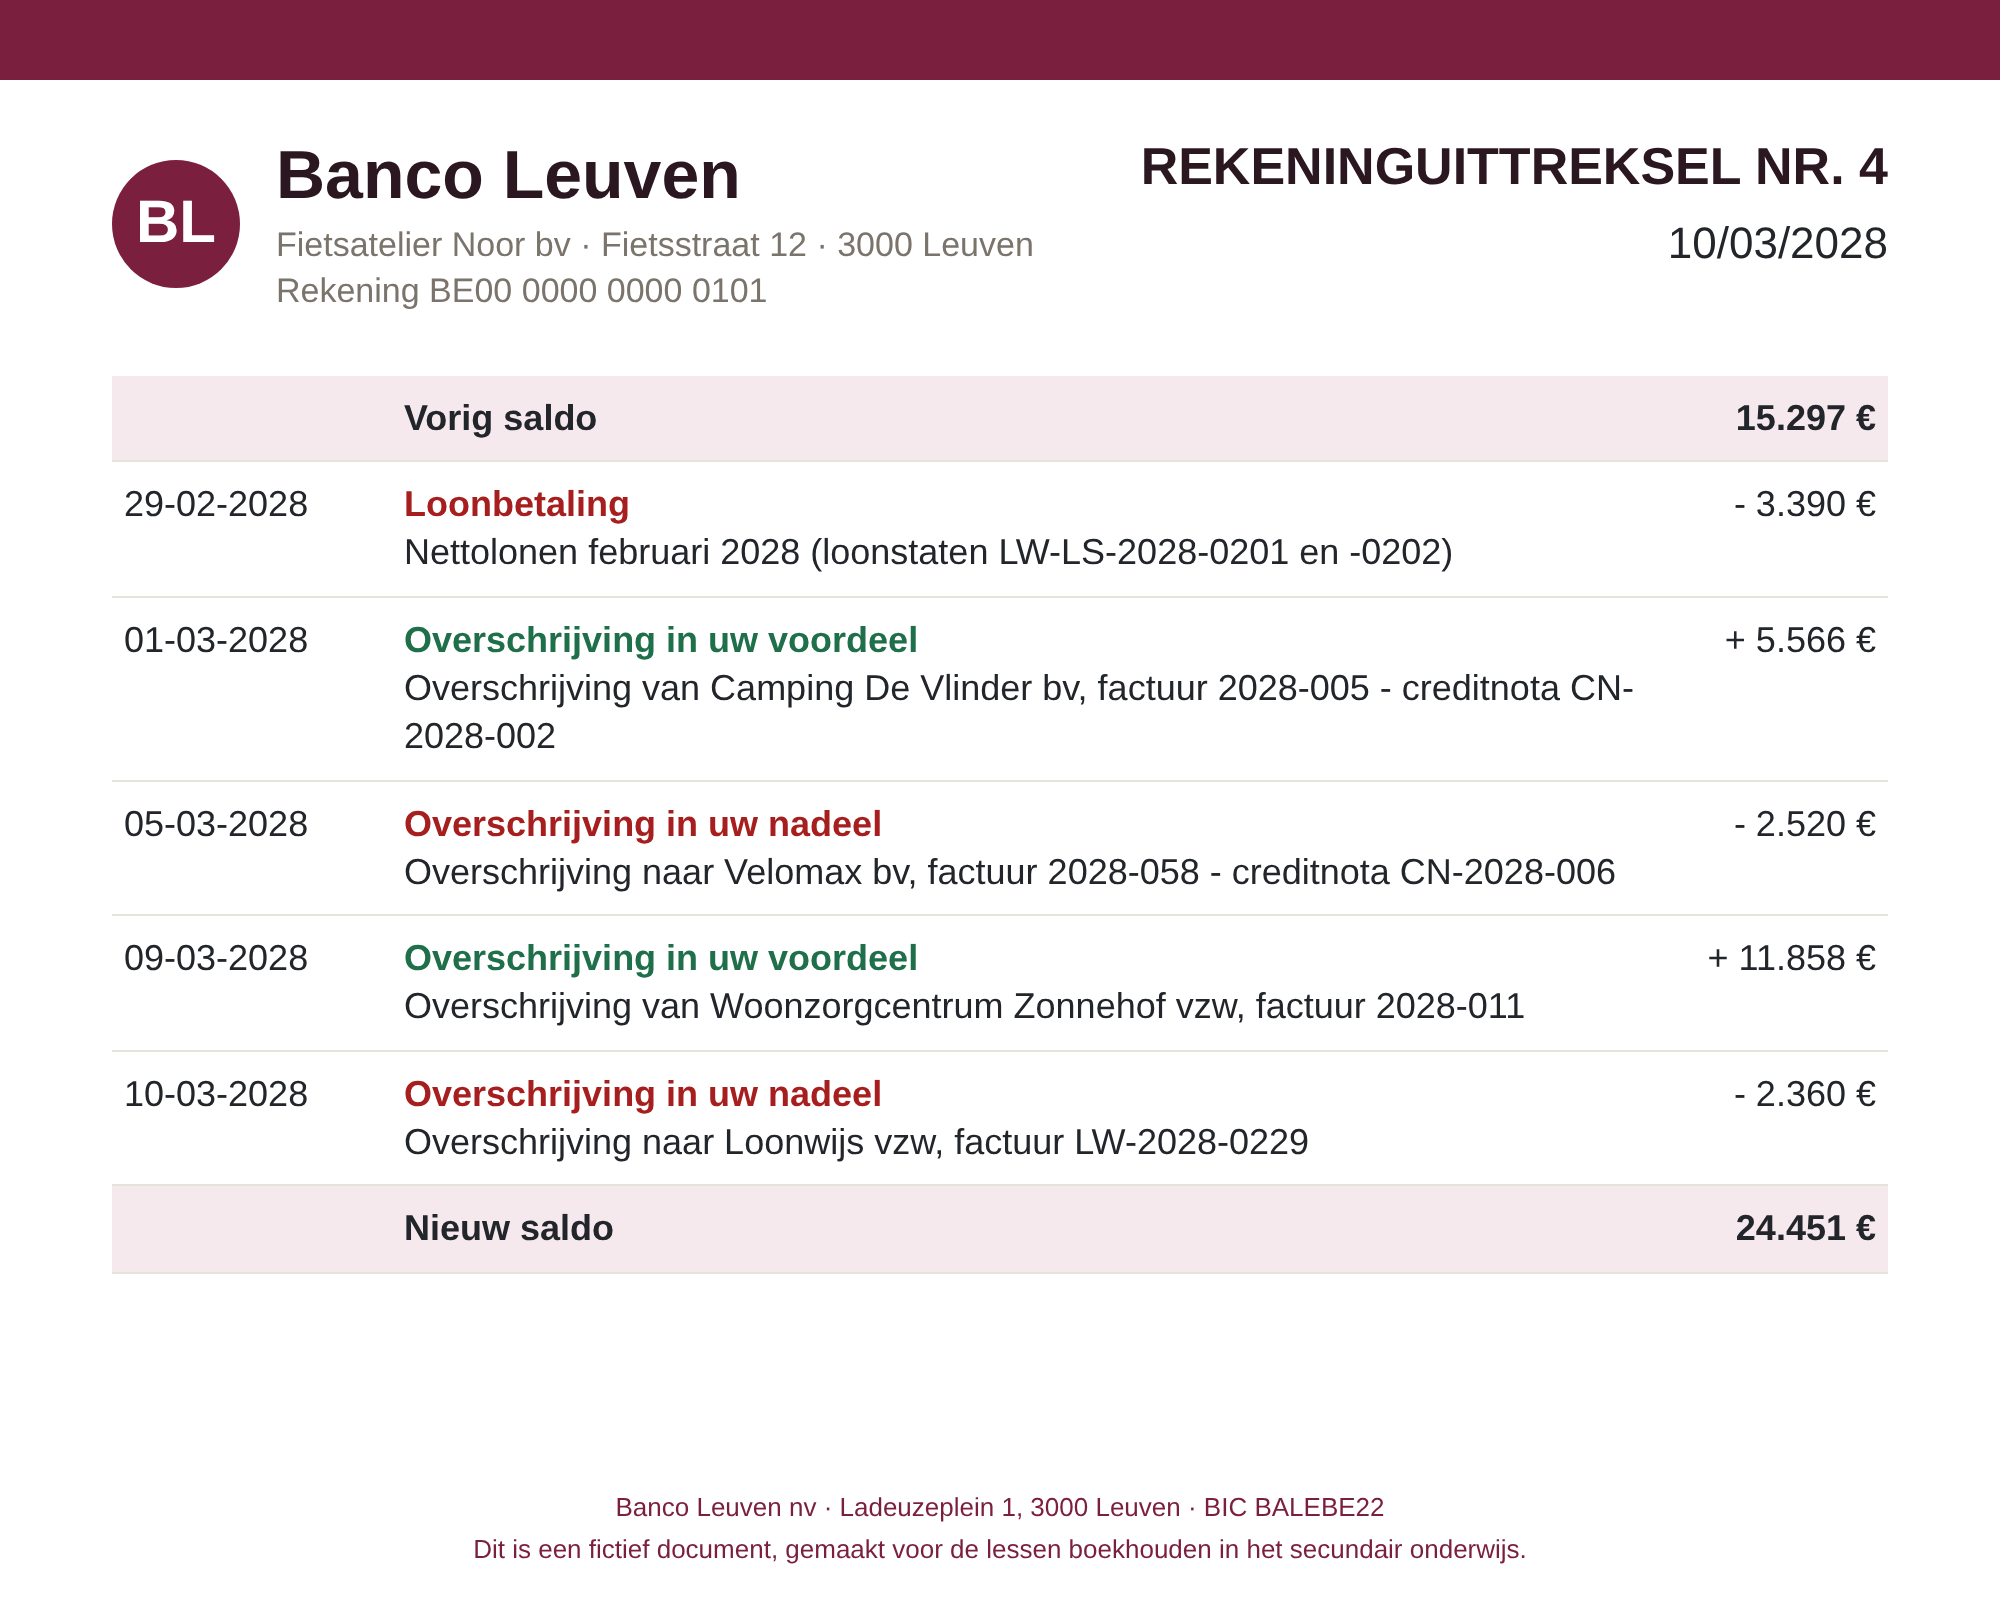
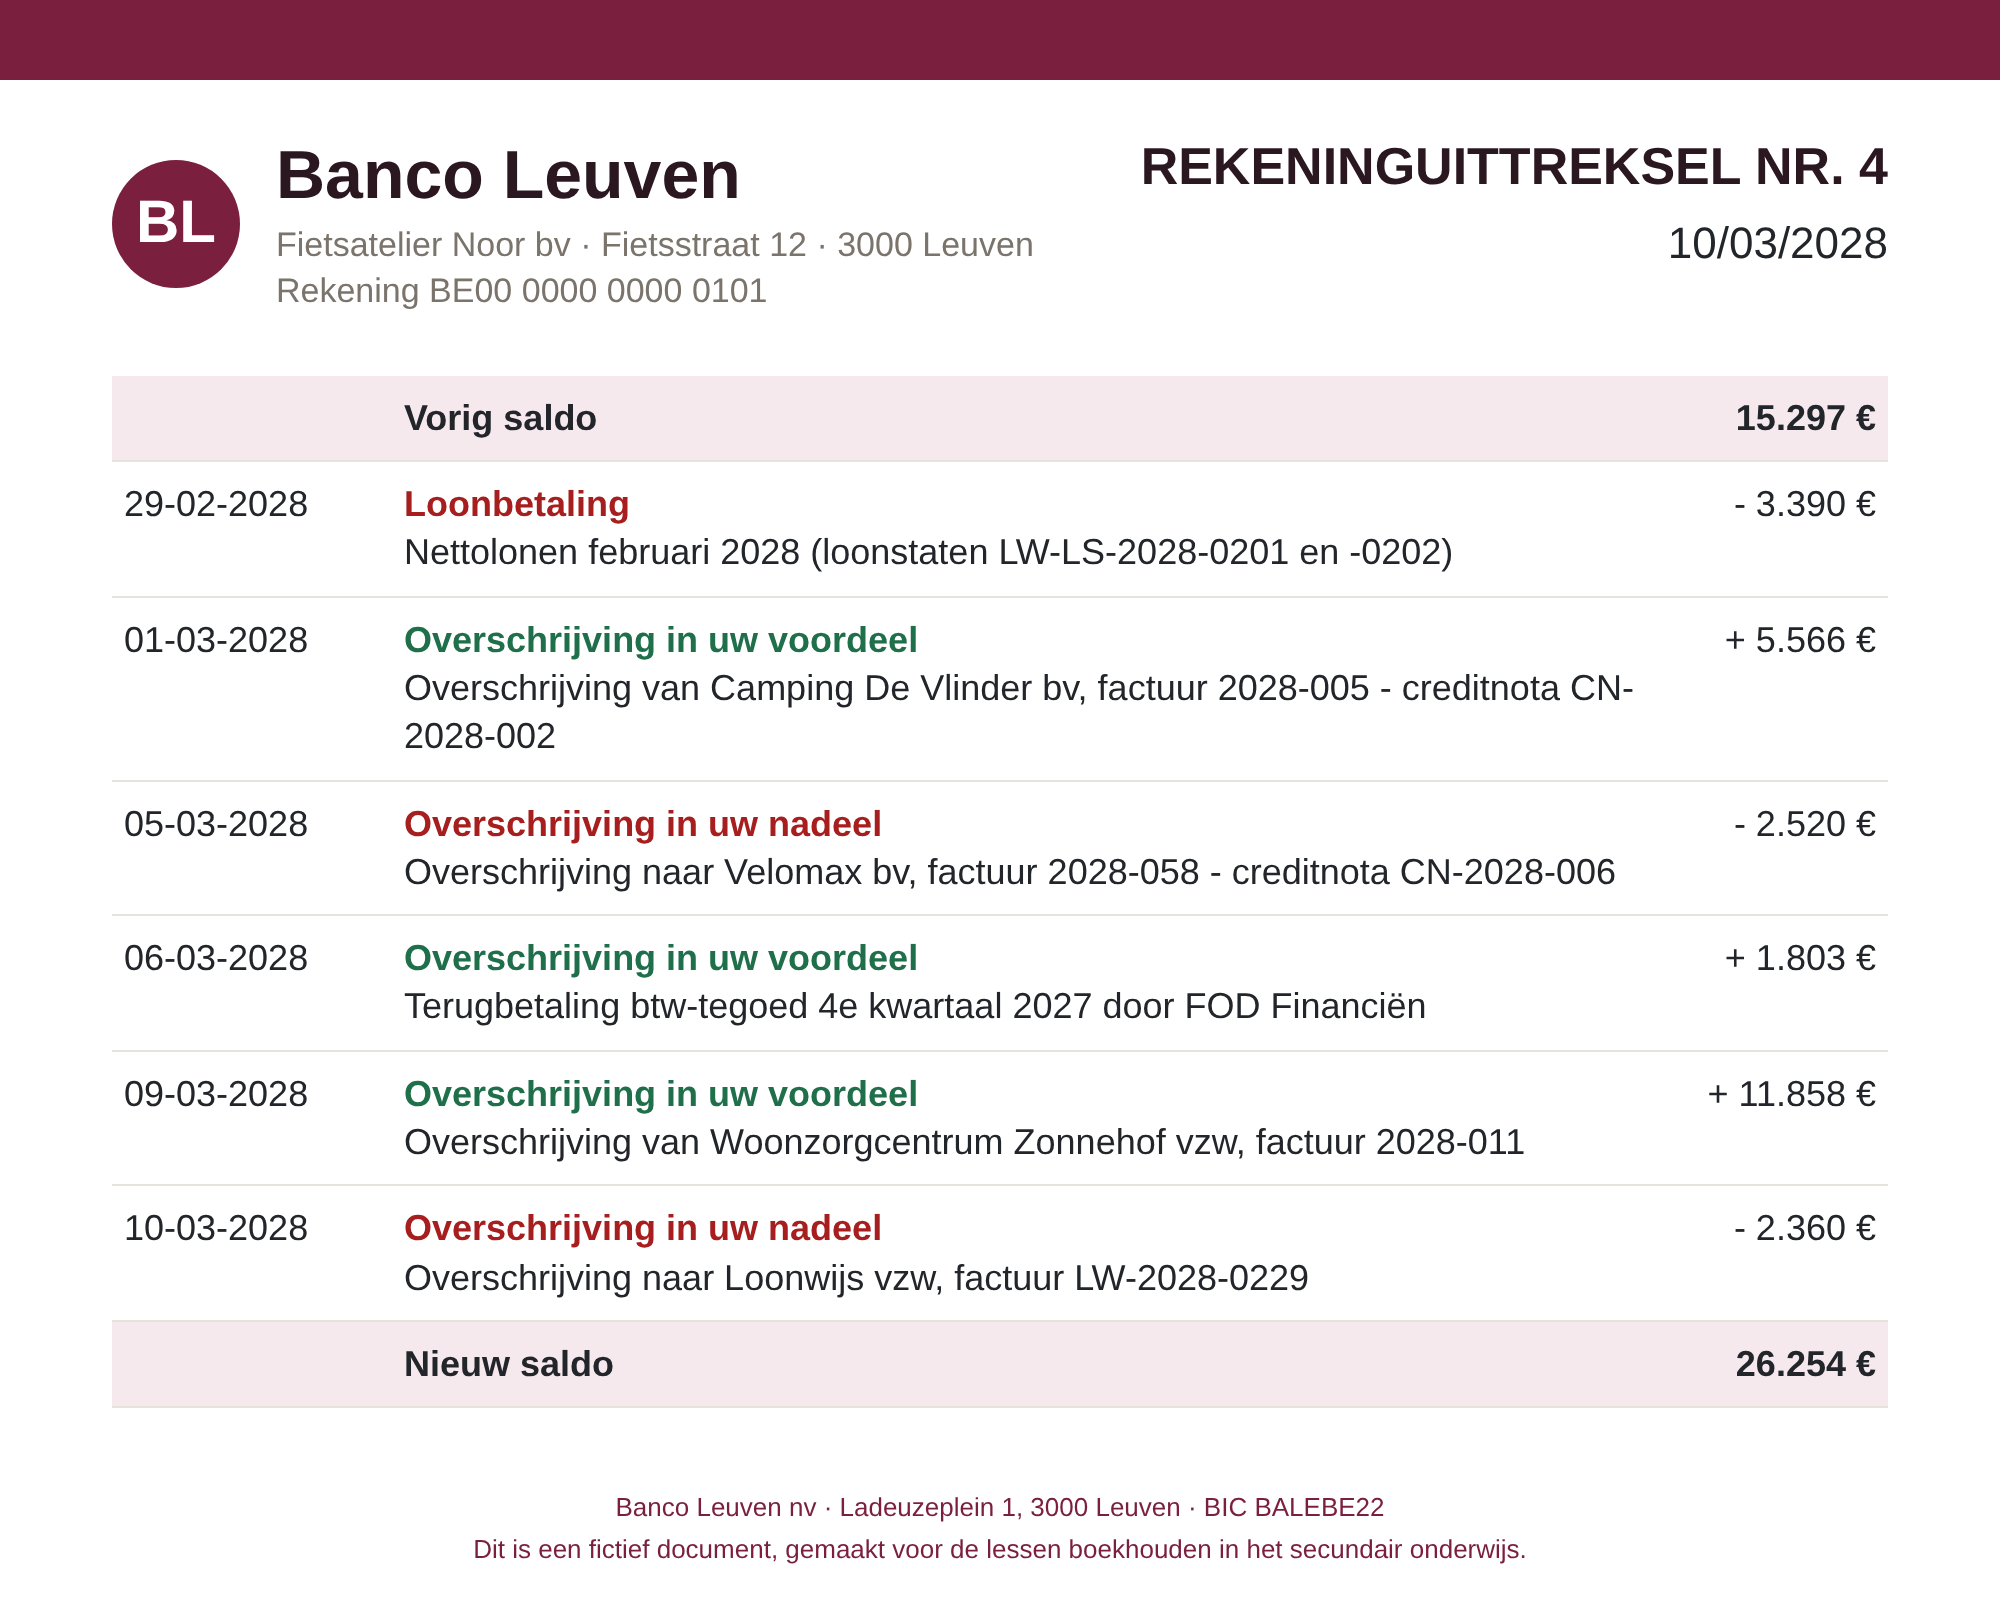
Oefendossier Noor: de staat betaalt het btw-tegoed terug
Op BANK04 (6 maart) betaalt de FOD Financiën het tegoed van het 4e
kwartaal 2027 terug (1.803 op 411000). De btw-verwerking van het 1e
kwartaal verrekent dus geen tegoed meer: te betalen saldo 4.485 op 451000.
Uitleg en controle bij BTW-verwerking mee aangepast.

Claude-Session: https://claude.ai/code/session_0129SribBi2FkufQ5TXPq9yo

diff --git a/js/noor/data-opdrachten.js b/js/noor/data-opdrachten.js
@@ -78,7 +78,7 @@ const OPDRACHTEN = [
   {"ref": "BANK05", "categorie": "Financiële verrichtingen", "titel": "Bankafschrift BANK05", "doc": "BANK05"},
 
   // BTW-verwerking
-  {"ref": "BTW", "categorie": "BTW-verwerking", "titel": "Btw-verwerking 1e kwartaal 2028", "geenDocument": true, "instructie": "Kijk in de T-rekeningen rechts naar het saldo van de tussentijdse btw-rekeningen (de 411- en 451-rekeningen die niet op 000 eindigen). Na de btw-aangifte van het 1e kwartaal wordt die btw gecentraliseerd op 411000 Terug te vorderen btw-saldo of 451000 Te betalen btw-saldo. Let op: op de beginbalans staat nog een btw-tegoed van het 4e kwartaal 2027 op 411000. Dat tegoed verreken je mee."},
+  {"ref": "BTW", "categorie": "BTW-verwerking", "titel": "Btw-verwerking 1e kwartaal 2028", "geenDocument": true, "instructie": "Kijk in de T-rekeningen rechts naar het saldo van de tussentijdse btw-rekeningen (de 411- en 451-rekeningen die niet op 000 eindigen). Na de btw-aangifte van het 1e kwartaal wordt die btw gecentraliseerd op 411000 Terug te vorderen btw-saldo of 451000 Te betalen btw-saldo. Het btw-tegoed van het 4e kwartaal 2027 (beginbalans) is in maart al terugbetaald: kijk na of 411000 op nul staat voor je begint."},
 
   // Eindejaarsverrichtingen
   {"ref": "AFSCHR", "categorie": "Eindejaarsverrichtingen", "titel": "Afschrijvingen 1e kwartaal 2028", "doc": "AFSCHR"},

diff --git a/hulpmiddelen/noor/case-j3.js b/hulpmiddelen/noor/case-j3.js
@@ -503,6 +503,8 @@ const U = [
     ["2028-02-29", lonen([L3, L4], "Nettolonen februari 2028 (loonstaten LW-LS-2028-0201 en -0202)")],
     ["2028-03-01", betaling([VK07, VK09])],
     ["2028-03-05", betaling([AK07, AK15])],
+    ["2028-03-06", { oms: "Terugbetaling btw-tegoed 4e kwartaal 2027 door FOD Financiën", bedrag: BB["411000"], docs: [],
+      regels: [{ rek: "550000", dc: "D", bedrag: BB["411000"] }, { rek: "411000", dc: "C", bedrag: BB["411000"] }] }],
     ["2028-03-09", betaling([VK10])],
     ["2028-03-10", betaling([AK19])],
   ] },
@@ -560,7 +562,9 @@ const saldi = () => {
 // ---- Btw-verwerking 1e kwartaal ----
 {
   const s = saldi();
-  const vorig = BB["411000"] || 0;   // tegoed uit het 4e kwartaal 2027
+  // Het tegoed uit het 4e kwartaal 2027 is in maart terugbetaald (BANK04);
+  // wat er nu nog op 411000 staat, wordt mee verrekend (normaal: niets).
+  const vorig = s["411000"] || 0;
   const saldo = r2(-(s["451100"] || 0) - (s["451200"] || 0) - (s["411100"] || 0) - (s["411200"] || 0) - vorig);
   const doc = { id: "J3BTW", ref: "BTW", categorie: C_BTW, soort: "MEMO", datum: "2028-03-31", geenDocument: true,
     boekOms: "Btw-verwerking 1e kwartaal 2028" };

diff --git a/js/noor/data-controles.js b/js/noor/data-controles.js
@@ -235,8 +235,8 @@ const HANDMATIGE_CONTROLES = [
     id: "noor-btw-tussentijds-leeg",
     categorie: "BTW-verwerking",
     type: "check",
-    vraag: "Zijn alle tussentijdse btw-rekeningen leeg, en is het tegoed van vorig kwartaal verrekend?",
-    toelichting: "Na de btw-aangifte hoort alle btw samen te staan op 411000 of 451000 — niet op allebei. Het tegoed van het 4e kwartaal 2027 (411000 op de beginbalans) verreken je mee.",
+    vraag: "Zijn alle tussentijdse btw-rekeningen leeg, en staat het saldo enkel op 451000?",
+    toelichting: "Na de btw-aangifte hoort alle btw van het kwartaal samen te staan op 451000 Te betalen btw-saldo. Het tegoed van het 4e kwartaal 2027 werd in maart terugbetaald (BANK04), dus 411000 staat op nul.",
     filterTip: "Filter in het T-paneel op btw.",
   },
 

diff --git a/hulpmiddelen/noor/maak-data.js b/hulpmiddelen/noor/maak-data.js
@@ -48,7 +48,7 @@ const EXTRA = {
     titel: "Btw-verwerking 1e kwartaal 2028", geenDocument: true,
     instructie: "Kijk in de T-rekeningen rechts naar het saldo van de tussentijdse btw-rekeningen (de 411- en 451-rekeningen die niet op 000 eindigen). " +
       "Na de btw-aangifte van het 1e kwartaal wordt die btw gecentraliseerd op 411000 Terug te vorderen btw-saldo of 451000 Te betalen btw-saldo. " +
-      "Let op: op de beginbalans staat nog een btw-tegoed van het 4e kwartaal 2027 op 411000. Dat tegoed verreken je mee.",
+      "Het btw-tegoed van het 4e kwartaal 2027 (beginbalans) is in maart al terugbetaald: kijk na of 411000 op nul staat voor je begint.",
   },
   AFSCHR: { titel: "Afschrijvingen 1e kwartaal 2028", doc: "AFSCHR" },
   OTK: {
